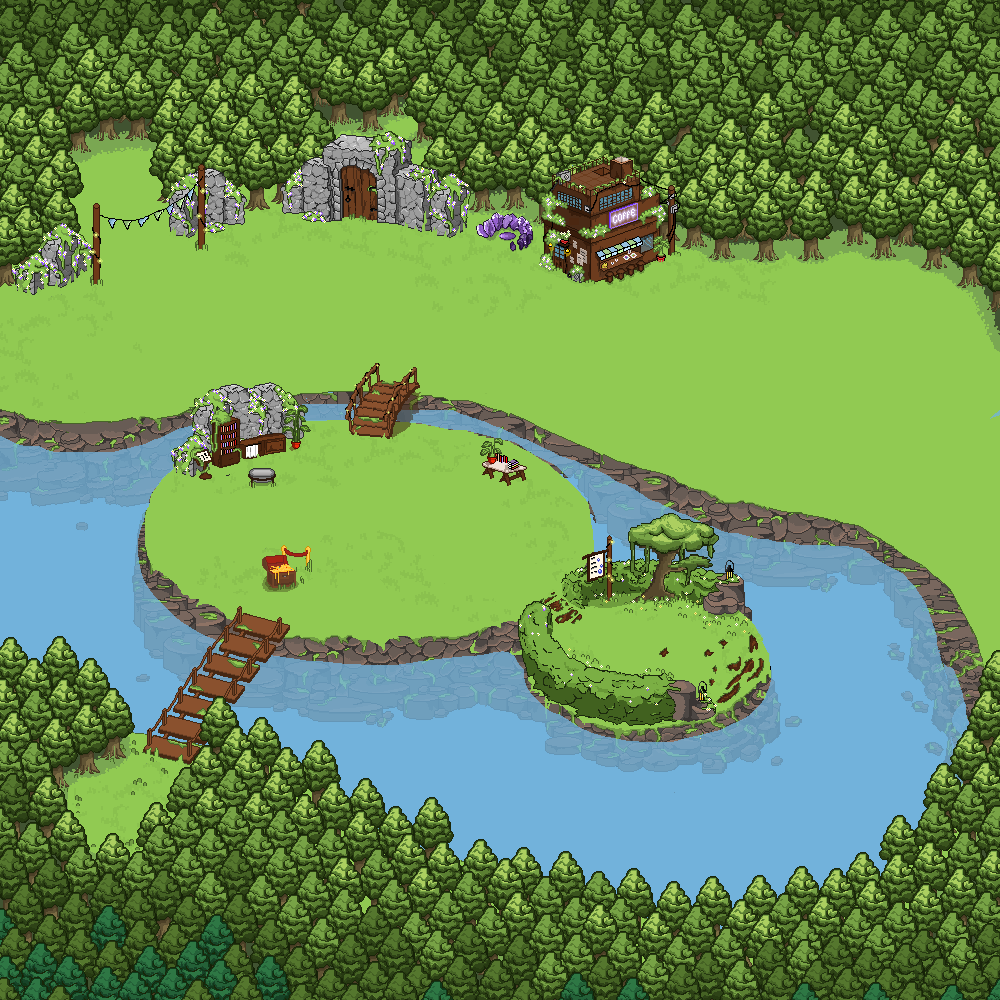
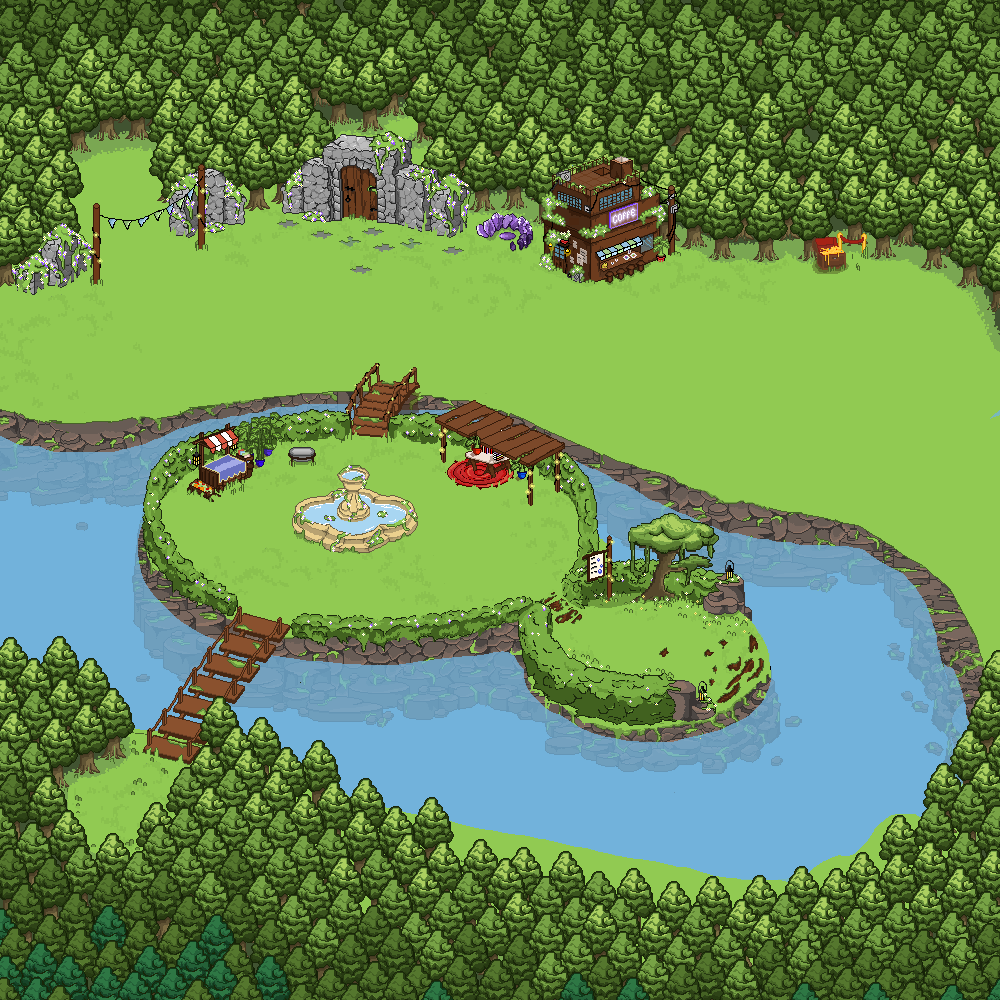
lobby addition

diff --git a/public/index.js b/public/index.js
@@ -9,20 +9,20 @@ window.onload = async function() {
   window.scrollTo(0, 0);
 };
 
-const mapLobby = new Image();
-mapLobby.src = "baseMap.png";
+const lobbyMap = new Image();
+lobbyMap.src = "./islands/lobby.png";
+
+const lobbyMapFront = new Image();
+lobbyMapFront.src = "./islands/lobbyFront.png";
 
 const islandOneMap = new Image();
 islandOneMap.src = "./islands/islandOne.png";
 
-const islandOneMapArcane = new Image();
-islandOneMapArcane.src = "./islands/islandOneArcane.png";
-
-const lobbyMap = new Image();
-lobbyMap.src = "./islands/lobby.png";
-
 const islandOneMapFront = new Image();
 islandOneMapFront.src = "./islands/islandOneFront.png";
+
+const islandOneMapArcane = new Image();
+islandOneMapArcane.src = "./islands/islandOneArcane.png";
 
 const islandOneMapArcaneFront = new Image();
 islandOneMapArcaneFront.src = "./islands/islandOneArcaneFront.png";
@@ -1998,7 +1998,7 @@ socket.on("loginAttempt", (msg) => {
     audioIntro.pause();
     loggedIn.play();
     // intervalCanvasBase = setInterval(lobbyLoop, 16.67); //Initial canvas
-    intervalCanvasBase = setInterval(islandOneLoop, 16.67); //Initial canvas
+    intervalCanvasBase = setInterval(lobbyLoop, 16.67); //Initial canvas
     console.log("logged in")
 
     loginScreen.classList.add('downLogIn');
@@ -4592,6 +4592,17 @@ let mapsInfo = {
     ],
   },
 
+  lobby: {
+    areaSounds: lobbySoundtrack,
+    backgroundImage: lobbyMap,
+    foregroundImage: lobbyMapFront,
+    playerPos: {
+      x: 2130,
+      y: 785
+    },
+    colliders: [],
+  },
+
 };
 
 let selectedXcoord = 0;
@@ -5854,7 +5865,7 @@ function drawMap (layer) {
   if (layer === "back") {
     canvas.drawImage(mapsInfo[currentLand].backgroundImage, cameraShakeX - cameraX, cameraShakeY - cameraY, 4500, 4500);
   } else {
-    canvas.drawImage(islandOneMapFront, cameraShakeX - cameraX, cameraShakeY - cameraY, 4500, 4500);
+    canvas.drawImage(mapsInfo[currentLand].foregroundImage, cameraShakeX - cameraX, cameraShakeY - cameraY, 4500, 4500);
   }
 }
 
@@ -6025,6 +6036,52 @@ function islandOneLoop() {
 
   // Enemy settings
   drawSlimeEnemy()
+
+
+  // Foreground map Image and objects
+  drawMap("front")
+  drawObjects("front")
+
+
+  // Dev Colliders
+  drawDevWallsPlacement()
+  drawColliders()
+
+}
+
+function lobbyLoop() {
+
+
+  // Map name        ↓
+  currentLand = "lobby";
+
+
+  // Map setup ( Mandatory )
+  mapSetup();
+
+
+  // Background map Image and objects
+  drawMap("back")
+  drawObjects("back")
+
+
+  // Particle settings
+  particlesActor()
+  // // shootingParticles()
+  dashParticles()
+  // // playerTrailParticles()
+
+
+  // Player settings
+  playerCollision()
+  drawLocalPlayer()
+  drawOnlinePlayers()
+  drawChat()
+  // // drawLocalBullets()
+
+
+  // Enemy settings
+  // // drawSlimeEnemy()
 
 
   // Foreground map Image and objects

diff --git a/src/index.js b/src/index.js
@@ -242,7 +242,7 @@ async function main() {
     });  
 
     io.on('connect', (socket) => {
-        socket.join("baseMap");
+        socket.join("lobby");
         console.log("socket", socket.id)
 
         inputsMap[socket.id] = {
